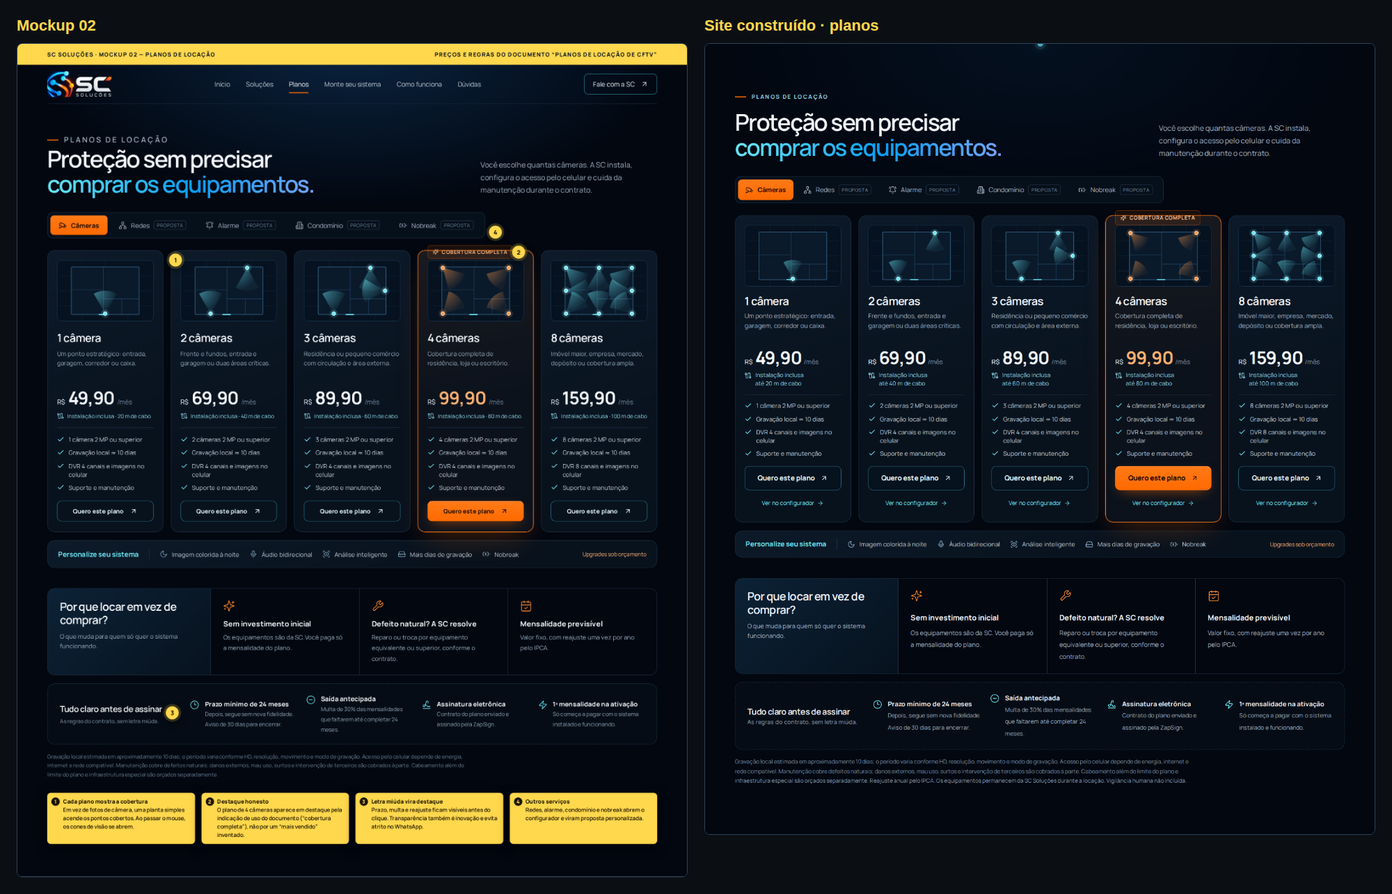
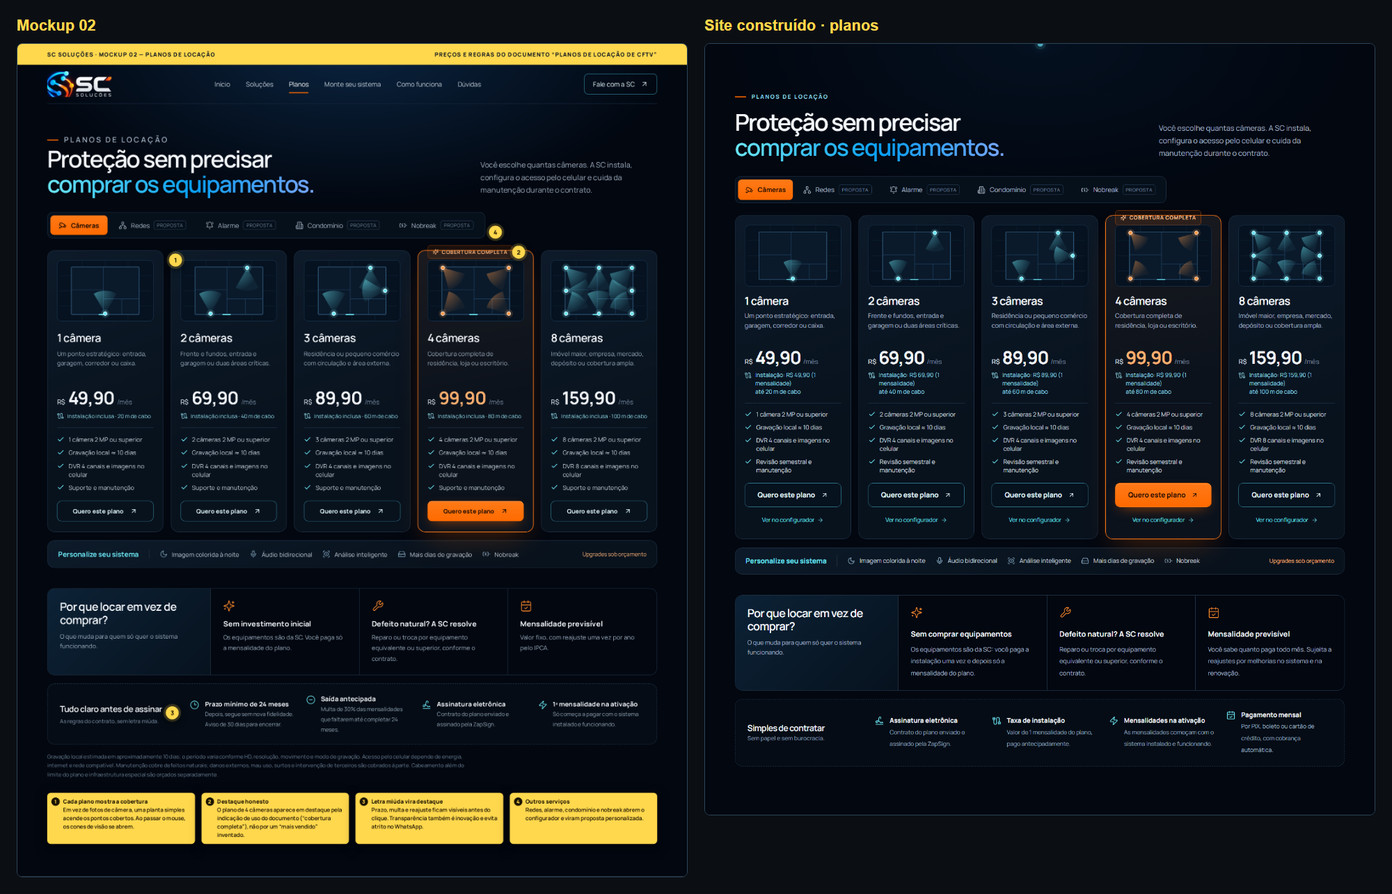
Ajustes publicados em 25/09/2026: taxa de instalação, CNPJ e contratação simples
Versão publicada em somoscella.online em 25/09/2026 às 14:59.

- Taxa de instalação: valor de 1 mensalidade do plano, paga antecipadamente
  (1 câmera → R$ 49,90; 4 câmeras → R$ 99,90). Aparece nos cartões, na
  abertura, na barra do celular e na dúvida "Como funciona a instalação?".
  As mensalidades começam na ativação. O número de mensalidades fica em
  taxaInstalacaoMensalidades (dados.ts), com plural certo.
- Rodapé e contato: CNPJ 62.768.829/0001-96, Francisco Beltrão - PR e
  somoscella@gmail.com.
- Seção "Simples de contratar": assinatura eletrônica, taxa de instalação,
  mensalidades na ativação e pagamento por PIX, boleto ou cartão. As condições
  contratuais completas ficam no contrato, apresentado antes da assinatura.
- "Por que locar": "Sem comprar equipamentos" e reajustes por melhorias no
  sistema e na renovação.
- Revisão preventiva a cada 6 meses; "Alarme monitorado pelo app".
- Busca das dúvidas passa a ignorar "você/vocês".
- Validador com 49 conferências e 69 testes das regras; comentários no código
  explicam cada regra nova.

diff --git a/site/src/lib/dados.ts b/site/src/lib/dados.ts
@@ -2,7 +2,7 @@
  * TODO O CONTEÚDO COMERCIAL DO SITE FICA AQUI.
  *
  * Fonte: documento "Planos de Locação de CFTV | SC Soluções".
- * Mudou preço, prazo, multa ou limite de cabo? Altere só este arquivo:
+ * Mudou preço, condição ou limite de cabo? Altere só este arquivo:
  * a abertura, os planos, o configurador e as mensagens do WhatsApp acompanham.
  */
 
@@ -36,17 +36,25 @@ export const empresa = {
   descricao: 'Segurança e Tecnologia',
   site: 'https://somoscella.online',
   regiao: 'Francisco Beltrão e região',
+  // Identificação no rodapé: só o CNPJ, sem o nome do titular (decisão do Kauan, 25/09/2026).
+  cnpj: '62.768.829/0001-96',
+  cidade: 'Francisco Beltrão - PR', // espaços que não quebram: "PR" não fica sozinho na linha
 };
 
 export const contato = {
   // Número usado em todos os botões de WhatsApp (atendimento pela equipe; o robô está fora do ar).
   whatsapp: '5546991331306',
   whatsappExibicao: '(46) 99133-1306',
+  email: 'somoscella@gmail.com',
   atendimento: 'Atendimento pela equipe da SC',
 };
 
 // false = troca todos os valores por "Sob consulta".
 export const mostrarPrecos: boolean = true;
+
+// Taxa de instalação = valor de N mensalidades do plano, pago antecipadamente (Kauan, 25/09/2026).
+export const taxaInstalacaoMensalidades: number = 1;
+export const rotuloTaxa = `${taxaInstalacaoMensalidades} ${taxaInstalacaoMensalidades > 1 ? 'mensalidades' : 'mensalidade'}`;
 
 export const planos: Plano[] = [
   {
@@ -101,23 +109,23 @@ export const upgrades: Upgrade[] = [
   { id: 'nobreak', nome: 'Nobreak', icone: 'battery-charging', detalhe: 'Mantém o sistema por um período na falta de energia. Depende da bateria e da carga.' },
 ];
 
+/*
+ * "Simples de contratar": como é a contratação (25/09/2026).
+ * As condições contratuais completas (prazo, cancelamento, cobranças extras,
+ * reajuste) ficam no contrato, apresentado ao cliente antes da assinatura.
+ * Só acrescente condições aqui com pedido do Kauan; o validador confere isso.
+ */
 export const condicoes: ItemIcone[] = [
-  { icone: 'clock-3', titulo: 'Prazo mínimo de 24 meses', texto: 'Depois, segue sem nova fidelidade. Aviso de 30 dias para encerrar.' },
-  { icone: 'circle-minus', titulo: 'Saída antecipada', texto: 'Multa de 30% das mensalidades que faltarem até completar 24 meses.' },
   { icone: 'signature', titulo: 'Assinatura eletrônica', texto: 'Contrato do plano enviado e assinado pela ZapSign.' },
-  { icone: 'zap', titulo: '1ª mensalidade na ativação', texto: 'Só começa a pagar com o sistema instalado e funcionando.' },
+  { icone: 'cable', titulo: 'Taxa de instalação', texto: `Valor de ${rotuloTaxa} do plano, pago antecipadamente.` },
+  { icone: 'zap', titulo: 'Mensalidades na ativação', texto: 'As mensalidades começam com o sistema instalado e funcionando.' },
+  { icone: 'calendar-check', titulo: 'Pagamento mensal', texto: 'Por PIX, boleto ou cartão de crédito, com cobrança automática.' },
 ];
 
-export const letraMiuda =
-  'Gravação local estimada em aproximadamente 10 dias; o período varia conforme HD, resolução, movimento e modo de gravação. ' +
-  'Acesso pelo celular depende de energia, internet e rede compatível. Manutenção cobre defeitos naturais; danos externos, mau uso, ' +
-  'surtos e intervenção de terceiros são cobrados à parte. Cabeamento além do limite do plano e infraestrutura especial são orçados ' +
-  'separadamente. Reajuste anual pelo IPCA. Os equipamentos permanecem da SC Soluções durante a locação. Vigilância humana não incluída.';
-
 export const porQueLocar: ItemIcone[] = [
-  { icone: 'sparkles', titulo: 'Sem investimento inicial', texto: 'Os equipamentos são da SC. Você paga só a mensalidade do plano.' },
+  { icone: 'sparkles', titulo: 'Sem comprar equipamentos', texto: 'Os equipamentos são da SC: você paga a instalação uma vez e depois só a mensalidade do plano.' },
   { icone: 'wrench', titulo: 'Defeito natural? A SC resolve', texto: 'Reparo ou troca por equipamento equivalente ou superior, conforme o contrato.' },
-  { icone: 'calendar-check', titulo: 'Mensalidade previsível', texto: 'Valor fixo, com reajuste uma vez por ano pelo IPCA.' },
+  { icone: 'calendar-check', titulo: 'Mensalidade previsível', texto: 'Você sabe quanto paga todo mês. Sujeita a reajustes por melhorias no sistema e na renovação.' },
 ];
 
 // Serviços que viram proposta personalizada (documento: "Exemplos de soluções personalizadas").
@@ -134,9 +142,10 @@ export const servicosProposta: ServicoProposta[] = [
     id: 'alarme',
     nome: 'Alarme',
     icone: 'bell-ring',
-    titulo: 'Alarme monitorado',
-    texto: 'Proteção conectada ao seu projeto.',
-    itens: ['Alarme integrado às câmeras', 'Comunicação de eventos', 'Projeto conforme o imóvel'],
+    // Monitorado pelo próprio cliente, no aplicativo: a SC não tem central de monitoramento.
+    titulo: 'Alarme monitorado pelo app',
+    texto: 'Você acompanha e comanda pelo celular.',
+    itens: ['Alarme integrado às câmeras', 'Avisos de eventos no aplicativo', 'Projeto conforme o imóvel'],
   },
   {
     id: 'condominio',
@@ -158,14 +167,14 @@ export const servicosProposta: ServicoProposta[] = [
 
 export const textoProposta =
   'A SC prepara proposta técnica, composição de equipamentos, mensalidade, taxa de implantação quando aplicável, ' +
-  'prazo mínimo, manutenção preventiva e contrato personalizados.';
+  'manutenção preventiva e contrato personalizados.';
 
 export const etapas: Etapa[] = [
   { icone: 'mouse-pointer-click', titulo: 'Escolha o plano', texto: 'Pela quantidade de pontos que quer acompanhar, ou montando o sistema no configurador.', meta: '1, 2, 3, 4 ou 8 câmeras' },
   { icone: 'map-pin', titulo: 'A SC confirma o local', texto: 'Pontos, viabilidade técnica e se precisa de alguma infraestrutura extra.', meta: 'Cabo dentro do limite do plano' },
   { icone: 'signature', titulo: 'Assine pelo celular', texto: 'O contrato do plano chega pela ZapSign. Sem papel, sem ir até a loja.', meta: 'Assinatura eletrônica' },
-  { icone: 'wrench', titulo: 'Instalação e app', texto: 'Instalamos, configuramos o gravador, testamos e deixamos as imagens no seu celular.', meta: '1ª mensalidade só na ativação' },
-  { icone: 'headset', titulo: 'Suporte contínuo', texto: 'Diagnóstico remoto em horário comercial e manutenção de defeitos naturais durante o contrato.', meta: 'Troca por equivalente ou superior' },
+  { icone: 'wrench', titulo: 'Instalação e app', texto: 'Instalamos, configuramos o gravador, testamos e deixamos as imagens no seu celular.', meta: 'Mensalidades a partir da ativação' },
+  { icone: 'headset', titulo: 'Suporte contínuo', texto: 'Revisão preventiva a cada 6 meses, diagnóstico remoto em horário comercial e manutenção de defeitos naturais durante o contrato.', meta: 'Troca por equivalente ou superior' },
 ];
 
 // Perguntas frequentes: texto do documento.
@@ -175,8 +184,8 @@ export const duvidas: Duvida[] = [
     resposta: 'Não. Os equipamentos são fornecidos em regime de locação e permanecem de propriedade da SC Soluções.',
   },
   {
-    pergunta: 'A instalação está incluída?',
-    resposta: 'Sim. A instalação padrão está incluída dentro do limite de cabeamento do plano. Infraestrutura especial e materiais adicionais são orçados separadamente.',
+    pergunta: 'Como funciona a instalação?',
+    resposta: `A instalação tem taxa no valor de ${rotuloTaxa} do plano, paga antecipadamente. Ela cobre a instalação padrão dentro do limite de cabeamento do plano; infraestrutura especial e materiais adicionais são orçados separadamente.`,
   },
   {
     pergunta: 'Consigo ver as câmeras pelo celular?',
@@ -188,11 +197,11 @@ export const duvidas: Duvida[] = [
   },
   {
     pergunta: 'A manutenção está incluída?',
-    resposta: 'Defeitos naturais dos equipamentos locados são cobertos. Danos externos, mau uso, vandalismo, surtos e intervenção de terceiros podem gerar cobrança.',
+    resposta: 'Sim. Há revisão preventiva a cada 6 meses, e defeitos naturais dos equipamentos locados são consertados ou trocados por equivalente ou superior.',
   },
   {
     pergunta: 'Posso cancelar?',
-    resposta: 'O prazo mínimo é de 24 meses. Durante esse período, o cancelamento antecipado gera multa de 30% das mensalidades restantes. Depois do prazo mínimo, o contrato continua por prazo indeterminado e pode ser encerrado com aviso de 30 dias.',
+    resposta: 'Sim. As condições de cancelamento estão no contrato, e a equipe da SC explica cada uma antes da assinatura.',
   },
   {
     pergunta: 'Posso adicionar câmeras premium?',
@@ -212,6 +221,15 @@ export function nomePlano(plano: Plano): string {
 
 export function textoPreco(plano: Plano): string {
   return mostrarPrecos ? `R$ ${formatarPreco(plano.preco)}/mês` : 'Sob consulta';
+}
+
+export function taxaInstalacao(plano: Plano): number {
+  return plano.preco * taxaInstalacaoMensalidades;
+}
+
+/** "R$ 99,90" (ou "1 mensalidade" quando os preços estão escondidos). */
+export function textoTaxaInstalacao(plano: Plano): string {
+  return mostrarPrecos ? `R$ ${formatarPreco(taxaInstalacao(plano))}` : rotuloTaxa;
 }
 
 export const menorPreco = Math.min(...planos.map((p) => p.preco));

diff --git a/site/tests/dados.test.ts b/site/tests/dados.test.ts
@@ -1,5 +1,5 @@
 import { describe, expect, it } from 'vitest';
-import { planos, contato, planoParaCameras, formatarPreco, linkWhatsapp, mensagemPlano, nomePlano, menorPreco, duvidas, condicoes } from '../src/lib/dados';
+import { planos, contato, empresa, planoParaCameras, formatarPreco, linkWhatsapp, mensagemPlano, nomePlano, menorPreco, duvidas, condicoes, porQueLocar, servicosProposta, textoProposta, etapas, taxaInstalacao, textoTaxaInstalacao } from '../src/lib/dados';
 
 describe('planos de locação', () => {
   it('são os planos fixos de 1, 2, 3, 4 e 8 câmeras, em ordem', () => {
@@ -74,6 +74,36 @@ describe('textos e contato', () => {
       expect(msg).toContain(nomePlano(p));
       expect(msg).toContain(formatarPreco(p.preco));
     }
+  });
+
+  it('condições contratuais (prazo, multa, cobranças extras, reajuste) ficam no contrato, não no site', () => {
+    const tudo = JSON.stringify({ condicoes, duvidas, porQueLocar, servicosProposta, textoProposta });
+    expect(tudo).not.toMatch(/prazo mínimo|24 meses|multa|IPCA|valor de reposição|desistência|central de monitoramento/i);
+    expect(condicoes.map((c) => c.titulo)).toEqual(['Assinatura eletrônica', 'Taxa de instalação', 'Mensalidades na ativação', 'Pagamento mensal']);
+  });
+
+  it('taxa de instalação = 1 mensalidade do plano, e nenhum texto diz que a instalação é grátis', () => {
+    for (const p of planos) {
+      expect(taxaInstalacao(p)).toBe(p.preco);
+      expect(textoTaxaInstalacao(p)).toBe(`R$ ${formatarPreco(p.preco)}`);
+    }
+    const tudo = JSON.stringify({ condicoes, duvidas, porQueLocar, etapas });
+    expect(tudo).not.toMatch(/instalação (padrão )?(está )?inclu[sí]|sem investimento inicial|sem pagar antes/i);
+    expect(tudo).toMatch(/Valor de 1 mensalidade do plano, pago antecipadamente/);
+  });
+
+  it('identifica a empresa com CNPJ válido e e-mail', () => {
+    const n = empresa.cnpj.replace(/\D/g, '');
+    const dv = (base: string, pesos: number[]) => {
+      const r = [...base].reduce((s, d, i) => s + Number(d) * pesos[i]!, 0) % 11;
+      return r < 2 ? '0' : String(11 - r);
+    };
+    const p1 = [5, 4, 3, 2, 9, 8, 7, 6, 5, 4, 3, 2];
+    const d1 = dv(n.slice(0, 12), p1);
+    const d2 = dv(n.slice(0, 12) + d1, [6, ...p1]);
+    expect(n).toHaveLength(14);
+    expect(n.slice(12)).toBe(d1 + d2);
+    expect(contato.email).toMatch(/^[^@\s]+@[^@\s]+\.[a-z]{2,}$/);
   });
 
   it('respeita as regras de comunicação do documento', () => {

diff --git a/site/src/styles/base.css b/site/src/styles/base.css
@@ -136,6 +136,8 @@ p { margin: 0; }
 .contato-dados { display: grid; grid-template-columns: 1fr 1fr; gap: 16px; margin: 22px 0 14px; }
 .contato-dados dt { font-size: 11px; letter-spacing: 0.14em; text-transform: uppercase; color: var(--texto-3); }
 .contato-dados dd { margin: 4px 0 0; font-size: 15px; font-weight: 600; }
+.contato-email { grid-column: 1 / -1; }
+.contato-email a, .rodape-empresa a { text-decoration: underline; text-underline-offset: 3px; }
 .contato-nota { display: flex; gap: 8px; align-items: flex-start; font-size: 13px; color: var(--texto-2); line-height: 1.6; }
 .contato-nota .ic { color: var(--ciano); margin-top: 3px; }
 
@@ -147,6 +149,7 @@ p { margin: 0; }
 .rodape-nav a:hover { color: #fff; }
 .voltar-topo { display: inline-flex; align-items: center; gap: 10px; font-size: 13px; color: var(--texto-2); min-height: 44px; }
 .voltar-topo .ic { color: var(--ciano); }
+.rodape-empresa { margin: 0 auto; padding-bottom: 18px; font-size: 12.5px; line-height: 1.7; color: var(--texto-2); }
 .rodape-base { display: flex; justify-content: space-between; gap: 20px; border-top: 1px solid #0f1f30; padding-top: 22px; font-size: 12px; color: var(--texto-3); }
 
 /* Barra fixa (celular) */
@@ -172,6 +175,7 @@ html[data-movimento] [data-revelar] { transition: opacity 0.8s var(--suave), tra
   .rodape-nav { margin-left: 0; width: 100%; flex-wrap: wrap; gap: 8px 22px; }
   .rodape-nav a { min-height: 44px; display: inline-flex; align-items: center; }
   .rodape-base { flex-direction: column; gap: 6px; }
+  .contato-email a, .rodape-empresa a { display: inline-flex; align-items: center; min-height: 44px; }
 }
 
 @media (max-width: 800px) {

diff --git a/site/src/styles/planos.css b/site/src/styles/planos.css
@@ -63,14 +63,13 @@
 .por-que-item b { display: block; font-size: 16px; margin: 14px 0 6px; }
 .por-que-item span { font-size: 13.5px; color: #a9bacb; line-height: 1.6; }
 
-.tudo-claro { margin-top: 18px; padding: 22px 26px; display: grid; grid-template-columns: 250px repeat(4, 1fr); gap: 20px; align-items: center; background: #050c15; border: 1px dashed #2a4258; border-radius: 16px; }
+.tudo-claro { margin-top: 18px; padding: 22px 26px; display: grid; grid-template-columns: 250px repeat(4, 1fr); gap: 20px 24px; align-items: center; background: #050c15; border: 1px dashed #2a4258; border-radius: 16px; }
 .tudo-claro h3 { font-size: 18px; }
 .tudo-claro h3 small { display: block; font-size: 12.5px; color: var(--texto-3); font-weight: 500; margin-top: 6px; letter-spacing: 0; }
 .condicao { display: flex; gap: 12px; align-items: flex-start; }
 .condicao .ic { color: var(--ciano); margin-top: 2px; }
 .condicao b { display: block; font-size: 14px; }
 .condicao span { font-size: 12.5px; color: #9fb1c2; line-height: 1.5; }
-.letra-miuda { font-size: 12px; color: #8196ab; line-height: 1.7; margin-top: 16px; max-width: 1000px; }
 
 @media (max-width: 1200px) {
   .planos-grade { gap: 12px; }

diff --git a/site/src/lib/busca.ts b/site/src/lib/busca.ts
@@ -14,7 +14,7 @@ const sinonimos: Record<string, string[]> = {
   instalar: ['instalacao'], instala: ['instalacao'], cabo: ['instalacao', 'cabeamento'], fio: ['instalacao', 'cabeamento'],
   noite: ['premium', 'colorida'], noturna: ['premium', 'colorida'], visao: ['premium'], audio: ['premium'], colorida: ['premium'], melhor: ['premium'], upgrade: ['premium'],
 };
-const ignorar = new Set(['a', 'o', 'e', 'de', 'da', 'do', 'das', 'dos', 'em', 'no', 'na', 'um', 'uma', 'eu', 'posso', 'pode', 'como', 'que', 'as', 'os', 'se', 'para', 'pra', 'com', 'meu', 'minha', 'tem', 'ter', 'sim', 'nao', 'qual', 'quanto', 'quantos']);
+const ignorar = new Set(['a', 'o', 'e', 'de', 'da', 'do', 'das', 'dos', 'em', 'no', 'na', 'um', 'uma', 'eu', 'voce', 'voces', 'posso', 'pode', 'como', 'que', 'as', 'os', 'se', 'para', 'pra', 'com', 'meu', 'minha', 'tem', 'ter', 'sim', 'nao', 'qual', 'quanto', 'quantos']);
 // Perguntas de preço vão para a seção de planos (não há dúvida frequente sobre valores).
 const palavrasPreco = /\b(preco|precos|valor|valores|custa|custo|mensalidade|barato|caro)\b|\bquanto (e|fica|sai|pago|pagaria|vou pagar)\b/;
 

diff --git a/site/src/scripts/como-funciona.ts b/site/src/scripts/como-funciona.ts
@@ -1,7 +1,7 @@
 import { reduzirMovimento } from './movimento';
 import { exigir, todos } from './dom';
 import { buscarDuvidas } from '../lib/busca';
-import { duvidas, linkWhatsapp, formatarPreco, menorPreco, mostrarPrecos } from '../lib/dados';
+import { duvidas, linkWhatsapp, formatarPreco, menorPreco, mostrarPrecos, rotuloTaxa } from '../lib/dados';
 
 /** Linha do tempo que acende + busca nas dúvidas. */
 export function iniciarComoFunciona(): void {
@@ -80,7 +80,7 @@ export function iniciarComoFunciona(): void {
     if (r.tipo === 'preco') {
       perguntas.forEach((p) => { p.hidden = true; });
       const link = Object.assign(document.createElement('a'), { href: '#planos', textContent: 'Planos de locação' });
-      const extra = mostrarPrecos ? `: a partir de R$ ${formatarPreco(menorPreco)}/mês, com instalação padrão inclusa.` : '.';
+      const extra = mostrarPrecos ? `: a partir de R$ ${formatarPreco(menorPreco)}/mês, e a instalação custa ${rotuloTaxa} do plano.` : '.';
       status.replaceChildren('Os valores estão em ', link, extra);
       return;
     }

diff --git a/site/src/scripts/barra.ts b/site/src/scripts/barra.ts
@@ -1,4 +1,4 @@
-import { planos, nomePlano, textoPreco, linkWhatsapp, mensagemPlano, condicoes, formatarPreco, menorPreco, mostrarPrecos, type Plano } from '../lib/dados';
+import { planos, nomePlano, textoPreco, linkWhatsapp, mensagemPlano, formatarPreco, menorPreco, mostrarPrecos, textoTaxaInstalacao, type Plano } from '../lib/dados';
 import type { ResumoBarra } from './configurador';
 import { exigir, todos } from './dom';
 
@@ -29,7 +29,7 @@ export function iniciarBarra(): void {
     if (secao === 'planos' && !exigir('#aba-cameras').hidden) {
       return {
         titulo: `${nomePlano(planoVisivel).replace('Plano de ', '')} · ${textoPreco(planoVisivel)}`,
-        sub: condicoes[0]?.titulo ?? '',
+        sub: `Instalação: ${textoTaxaInstalacao(planoVisivel)}`,
         link: linkWhatsapp(mensagemPlano(planoVisivel)),
         acao: 'Quero este',
       };

diff --git a/site/tests/busca.test.ts b/site/tests/busca.test.ts
@@ -19,7 +19,7 @@ describe('busca nas dúvidas', () => {
     ['quero desistir do contrato', 'Posso cancelar?'],
     ['quebrou a câmera', 'A manutenção está incluída?'],
     ['quanto tempo grava?', 'Quantos dias ficam gravados?'],
-    ['instala', 'A instalação está incluída?'],
+    ['instala', 'Como funciona a instalação?'],
     ['visão noturna', 'Posso adicionar câmeras premium?'],
     ['preciso comprar?', 'Preciso comprar os equipamentos?'],
   ])('"%s" → %s', (consulta, esperada) => {

diff --git a/docs/inovacao/RELATORIO-VALIDACAO.md b/docs/inovacao/RELATORIO-VALIDACAO.md
@@ -1,19 +1,20 @@
 # Relatório de validação do site
 
-Gerado por `npm run validar` em 25/09/2026, 01:34:43.
-Resultado: **46 de 46 itens ✅** — checklist completa.
+Gerado por `npm run validar` em 25/09/2026, 15:06:55.
+Resultado: **49 de 49 itens ✅** — checklist completa.
 
 ## Geral
 
 | | Item | Detalhe |
 |---|---|---|
 | ✅ | Tipos conferidos (astro check) e build sem erro |  |
-| ✅ | Testes unitários das regras (Vitest) passam | 66 testes |
-| ✅ | Peso total da página ≤ 500 KB (sem compactação) | 346 KB em 5 arquivos; maiores: / 193 KB, /marca/sc-logo.webp 52 KB, /assets/index.CCWjk9oH.css 43 KB |
+| ✅ | Testes unitários das regras (Vitest) passam | 69 testes |
+| ✅ | Peso total da página ≤ 500 KB (sem compactação) | 346 KB em 5 arquivos; maiores: / 194 KB, /marca/sc-logo.webp 52 KB, /assets/index.Dgs-2cxc.css 43 KB |
 | ✅ | Todo link interno leva a uma seção que existe | 6 destinos conferidos |
 | ✅ | Todo WhatsApp usa wa.me/5546991331306 com mensagem preenchida | 16 links |
 | ✅ | Número antigo (46) 99113-8360 não aparece |  |
-| ✅ | Todo preço na página bate com dados.ts | 6 preços encontrados |
+| ✅ | Rodapé identifica a empresa (CNPJ, cidade, e-mail) |  |
+| ✅ | Todo preço na página bate com dados.ts | 11 preços encontrados |
 | ✅ | Cores-base iguais às da logo | #09a0f6 #6de9f6 #ff6a00 #020710 |
 | ✅ | Contraste do texto secundário ≥ 4,5:1 (fundo e cartões) | menor: 6.02:1; texto principal 18.8:1 |
 | ✅ | Todo controle tem nome acessível |  |
@@ -47,7 +48,9 @@ Resultado: **46 de 46 itens ✅** — checklist completa.
 |---|---|---|
 | ✅ | 5 planos com preço, cabo e uso; mini-planta com exatamente N câmeras | 5/5 |
 | ✅ | Destaque "Cobertura completa" só no plano de 4 câmeras |  |
-| ✅ | "Tudo claro antes de assinar": prazo, saída, ZapSign, 1ª mensalidade + letra miúda |  |
+| ✅ | "Simples de contratar": assinatura eletrônica, taxa de instalação, mensalidades na ativação, pagamento |  |
+| ✅ | Cada plano mostra a taxa de instalação (1 mensalidade) e nada diz que a instalação é grátis | 5/5 |
+| ✅ | Condições contratuais ficam no contrato (sem prazo mínimo, multa ou cobranças extras no site) |  |
 | ✅ | "Quero este plano" leva nome e valor do plano ao WhatsApp | 5/5 |
 | ✅ | Abas de proposta funcionam (clique e setas do teclado) |  |
 
@@ -66,7 +69,7 @@ Resultado: **46 de 46 itens ✅** — checklist completa.
 
 | | Item | Detalhe |
 |---|---|---|
-| ✅ | Linha do tempo acende etapa por etapa | 0 → 1 → 2 → 3 → 3 → 4 → 5 |
+| ✅ | Linha do tempo acende etapa por etapa | 0 → 1 → 2 → 3 → 4 → 4 → 5 |
 | ✅ | 7 perguntas; a busca "celular" mostra a resposta certa | Consigo ver as câmeras pelo celular? |
 | ✅ | Busca sem resultado oferece perguntar pelo WhatsApp |  |
 | ✅ | Área do cliente identificada como exemplo ("em breve") |  |

diff --git a/docs/inovacao/DECISOES.md b/docs/inovacao/DECISOES.md
@@ -41,6 +41,10 @@ a pessoa quer. O site diz "atendimento pela equipe da SC" e não promete respost
 | Área do cliente | Aparece como **exemplo, em breve** (não é um sistema funcionando) | Fase 4 do plano; depende da operação |
 | Destaque do plano de 4 câmeras | "Cobertura completa", texto do próprio documento | Sem "mais vendido" inventado |
 | Clientes, depoimentos, números de mercado | Não usados | Regra do projeto: nada inventado |
+| Prazo mínimo, cancelamento, cobranças extras, reajuste | **Ficam no contrato**, apresentado antes da assinatura; o site não os repete. A seção de condições virou "Simples de contratar" (assinatura, taxa de instalação, mensalidades na ativação, pagamento) | Decisão do Kauan em 25/09/2026 |
+| Taxa de instalação | **Valor de 1 mensalidade do plano, pago antecipadamente** (1 câmera → R$ 49,90; 4 câmeras → R$ 99,90). Aparece nos cartões, na abertura, na barra do celular, em "Simples de contratar" e na dúvida sobre instalação; as mensalidades começam na ativação. Número de mensalidades em `taxaInstalacaoMensalidades` (`dados.ts`) | Decisão do Kauan em 25/09/2026. Substitui "instalação inclusa" do documento de planos |
+| Reajuste | "Sujeita a reajustes por melhorias no sistema e na renovação" | Decisão do Kauan em 25/09/2026 (não é anual pelo IPCA) |
+| Alarme | "Alarme monitorado pelo app" | A SC não tem central de monitoramento |
 
 ## Decisões técnicas
 

diff --git a/CLAUDE.md b/CLAUDE.md
@@ -18,6 +18,13 @@ solução, não a mais simples de entender; nas conversas, explique o porquê da
 - Comunicação dos planos: "aproximadamente 10 dias" de gravação; acesso pelo celular depende de
   energia e internet; recursos premium sempre "sob orçamento"; condomínio e empresa com
   infraestrutura especial → proposta personalizada.
+- **Condições contratuais ficam no contrato** (25/09/2026): prazo mínimo, cancelamento, cobranças
+  extras e reajuste não aparecem no site; o contrato é apresentado antes da assinatura. Só mude isso
+  com pedido do Kauan; o validador confere. Rodapé: CNPJ, cidade e e-mail. Alarme é "monitorado
+  pelo app".
+- **A instalação não é grátis:** taxa = valor de 1 mensalidade do plano, paga antecipadamente
+  (`taxaInstalacaoMensalidades` em `dados.ts`). Nunca escreva "instalação inclusa" nem "sem
+  investimento inicial"; o validador falha.
 - WhatsApp do site: `(46) 99133-1306`. O número antigo `(46) 99113-8360` não pode aparecer.
 - Logo: só os arquivos oficiais (`site/public/marca/`); nunca redesenhe. O Claude não gera foto.
 - **Publicar é ação externa: só com pedido explícito do Kauan** (Nginx do VPS, guardando antes a versão no ar).
